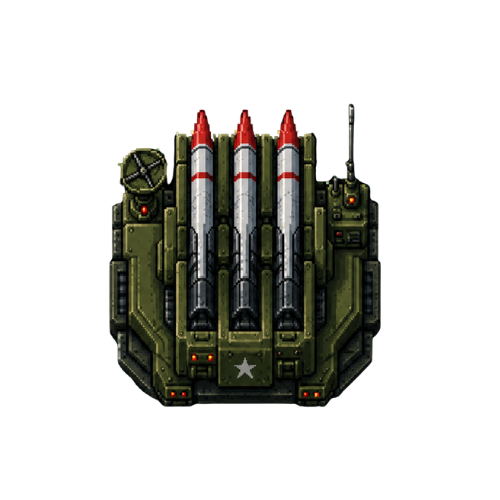
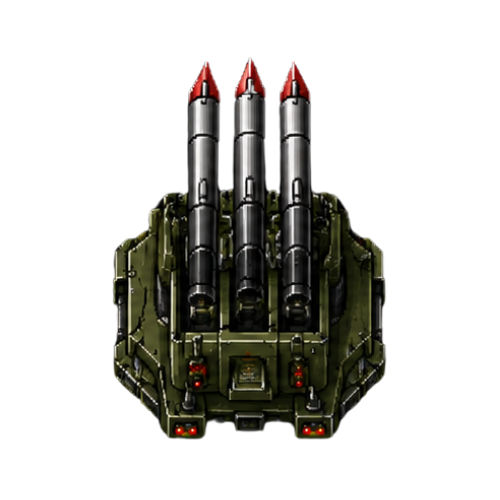
Creating player and enemies. Creating level game

Changed region(s): [[0.21, 0.12, 0.78, 0.9]]

diff --git a/code/Player.py b/code/Player.py
@@ -1,39 +1,77 @@
 #!/usr/bin/python
 # -*- coding: utf-8 -*-
+
 import pygame
 
 from code.Entity import Entity
-from code.Cons import WIN_WIDTH, WINDOW_HEIGHT, ENTITY_SPEED, PLAYER_KEY_LEFT, PLAYER_KEY_RIGHT, PLAYER_KEY_SHOOT
 from code.Missile import Missile
+from code.Cons import (
+    WIN_WIDTH,
+    PLAYER_KEY_ROTATE_LEFT,
+    PLAYER_KEY_ROTATE_RIGHT,
+    PLAYER_KEY_SHOOT,
+    DIR_CENTER,
+    MISSILE_ANGLES
+)
 
 
 class Player(Entity):
     def __init__(self, name: str, position: tuple):
+        self.direction = DIR_CENTER  # começa no Player_2
+
         super().__init__(name, position)
 
-        self.surf = pygame.transform.scale(self.surf, (80, 80))
-        self.rect = self.surf.get_rect(left=position[0], top=position[1])
-
         self.shoot_delay = 0
+        self.rotate_delay = 0
+
+        self.load_sprite()
+
+        self.rect.centerx = WIN_WIDTH // 2
+        self.rect.centery = 620
+
+    def load_sprite(self):
+        center = self.rect.center if hasattr(self, 'rect') else (WIN_WIDTH // 2, 620)
+
+        self.surf = pygame.image.load(
+            f'./asset/Player_{self.direction}.png'
+        ).convert_alpha()
+
+        self.surf = pygame.transform.scale(self.surf, (96, 96))
+        self.rect = self.surf.get_rect(center=center)
 
     def move(self):
-        pressed_key = pygame.key.get_pressed()
+        keys = pygame.key.get_pressed()
 
-        if pressed_key[PLAYER_KEY_LEFT] and self.rect.left > 0:
-            self.rect.centerx -= ENTITY_SPEED[self.name]
+        self.rotate_delay += 1
 
-        if pressed_key[PLAYER_KEY_RIGHT] and self.rect.right < WIN_WIDTH:
-            self.rect.centerx += ENTITY_SPEED[self.name]
+        if self.rotate_delay >= 10:
+            if keys[PLAYER_KEY_ROTATE_LEFT]:
+                if self.direction > 0:
+                    self.direction -= 1
+                    self.load_sprite()
+                self.rotate_delay = 0
 
-        self.rect.bottom = WINDOW_HEIGHT - 20
+            elif keys[PLAYER_KEY_ROTATE_RIGHT]:
+                if self.direction < 4:
+                    self.direction += 1
+                    self.load_sprite()
+                self.rotate_delay = 0
+
+        self.rect.centerx = WIN_WIDTH // 2
+        self.rect.centery = 620
 
     def shoot(self):
         self.shoot_delay += 1
+        keys = pygame.key.get_pressed()
 
-        pressed_key = pygame.key.get_pressed()
-
-        if pressed_key[PLAYER_KEY_SHOOT] and self.shoot_delay >= 15:
+        if keys[PLAYER_KEY_SHOOT] and self.shoot_delay >= 15:
             self.shoot_delay = 0
-            return Missile('Missile', (self.rect.centerx - 8, self.rect.top - 20))
+            angle = MISSILE_ANGLES[self.direction]
+
+            return Missile(
+                'Missile',
+                (self.rect.centerx, self.rect.top + 10),
+                angle
+            )
 
         return None

diff --git a/code/Cons.py b/code/Cons.py
@@ -2,8 +2,16 @@
 # -*- coding: utf-8 -*-
 import pygame
 
+# =========================
+# WINDOW
+# =========================
+
 WIN_WIDTH = 576
 WINDOW_HEIGHT = 768
+
+# =========================
+# COLORS
+# =========================
 
 COLOR_WHITE = (255, 255, 255)
 COLOR_YELLOW = (255, 255, 0)
@@ -11,15 +19,27 @@ COLOR_RED = (255, 0, 0)
 COLOR_GREEN = (0, 255, 0)
 COLOR_BLACK = (0, 0, 0)
 
+# =========================
+# EVENTS
+# =========================
+
 ENEMY_EVENT = pygame.USEREVENT + 1
 SPAWN_TIME = 1200
 
+# =========================
+# SPEEDS
+# =========================
+
 ENTITY_SPEED = {
     'Player': 5,
-    'Missile': 9,
+    'Missile': 10,
     'Enemy1': 3,
     'Enemy2': 2,
 }
+
+# =========================
+# HEALTH
+# =========================
 
 ENTITY_HEALTH = {
     'Player': 100,
@@ -28,9 +48,43 @@ ENTITY_HEALTH = {
     'Enemy2': 5,
 }
 
-PLAYER_KEY_LEFT = pygame.K_LEFT
-PLAYER_KEY_RIGHT = pygame.K_RIGHT
-PLAYER_KEY_SHOOT = pygame.K_SPACE
+# =========================
+# GAME RULES
+# =========================
 
 BASE_HEALTH = 10
 WIN_SCORE = 1500
+
+# =========================
+# TURRET DIRECTIONS
+# =========================
+
+DIR_LEFT = 0
+DIR_CENTER_LEFT = 1
+DIR_CENTER = 2
+DIR_CENTER_RIGHT = 3
+DIR_RIGHT = 4
+
+# =========================
+# MISSILE TRAJECTORIES
+# =========================
+# (x_speed, y_speed)
+#
+# Mais reto para frente,
+# acompanhando a direção da torre.
+
+MISSILE_ANGLES = {
+    DIR_LEFT: (-7, -8),
+    DIR_CENTER_LEFT: (-4, -9),
+    DIR_CENTER: (0, -10),
+    DIR_CENTER_RIGHT: (4, -9),
+    DIR_RIGHT: (7, -8),
+}
+
+# =========================
+# CONTROLS
+# =========================
+
+PLAYER_KEY_ROTATE_LEFT = pygame.K_a
+PLAYER_KEY_ROTATE_RIGHT = pygame.K_d
+PLAYER_KEY_SHOOT = pygame.K_SPACE

diff --git a/code/Missile.py b/code/Missile.py
@@ -1,16 +1,25 @@
 #!/usr/bin/python
 # -*- coding: utf-8 -*-
 
+import pygame
+
 from code.Entity import Entity
-from code.Cons import ENTITY_SPEED
 
 
 class Missile(Entity):
-    def __init__(self, name: str, position: tuple):
+
+    def __init__(self, name: str, position: tuple, angle: tuple):
+
         super().__init__(name, position)
 
-        self.surf = pygame.transform.scale(self.surf, (16, 32))
-        self.rect = self.surf.get_rect(left=position[0], top=position[1])
+        self.surf = pygame.transform.scale(self.surf,(72, 120))
+
+        self.rect = self.surf.get_rect(center=position)
+
+        self.x_speed = angle[0]
+        self.y_speed = angle[1]
 
     def move(self):
-        self.rect.centery -= ENTITY_SPEED[self.name]
+
+        self.rect.centerx += self.x_speed
+        self.rect.centery += self.y_speed

diff --git a/code/EntityFactory.py b/code/EntityFactory.py
@@ -2,7 +2,7 @@
 # -*- coding: utf-8 -*-
 import random
 
-from code.Cons import WIN_WIDTH, WINDOW_HEIGHT
+from code.Cons import WIN_WIDTH
 from code.Player import Player
 from code.Enemy import Enemy
 
@@ -12,14 +12,17 @@ class EntityFactory:
     @staticmethod
     def get_entity(entity_name: str):
         if entity_name == 'Player':
-            return Player('Player', (WIN_WIDTH // 2 - 40, WINDOW_HEIGHT - 100))
+            player = Player('Player', (0, 0))
+            player.rect.centerx = WIN_WIDTH // 2
+            player.rect.centery = 640
+            return player
 
         if entity_name == 'Enemy1':
-            x = random.randint(20, WIN_WIDTH - 80)
-            return Enemy('Enemy1', (x, -80))
+            x = random.randint(20, WIN_WIDTH - 70)
+            return Enemy('Enemy1', (x, -150))
 
         if entity_name == 'Enemy2':
-            x = random.randint(20, WIN_WIDTH - 120)
-            return Enemy('Enemy2', (x, -120))
+            x = random.randint(20, WIN_WIDTH - 100)
+            return Enemy('Enemy2', (x, -220))
 
         return None

diff --git a/code/Enemy.py b/code/Enemy.py
@@ -11,10 +11,10 @@ class Enemy(Entity):
         super().__init__(name, position)
 
         if self.name == 'Enemy1':
-            self.surf = pygame.transform.scale(self.surf, (64, 64))
+            self.surf = pygame.transform.scale(self.surf,(96, 96))
 
         elif self.name == 'Enemy2':
-            self.surf = pygame.transform.scale(self.surf, (96, 96))
+            self.surf = pygame.transform.scale(self.surf,(70, 70))
 
         self.rect = self.surf.get_rect(left=position[0], top=position[1])
 